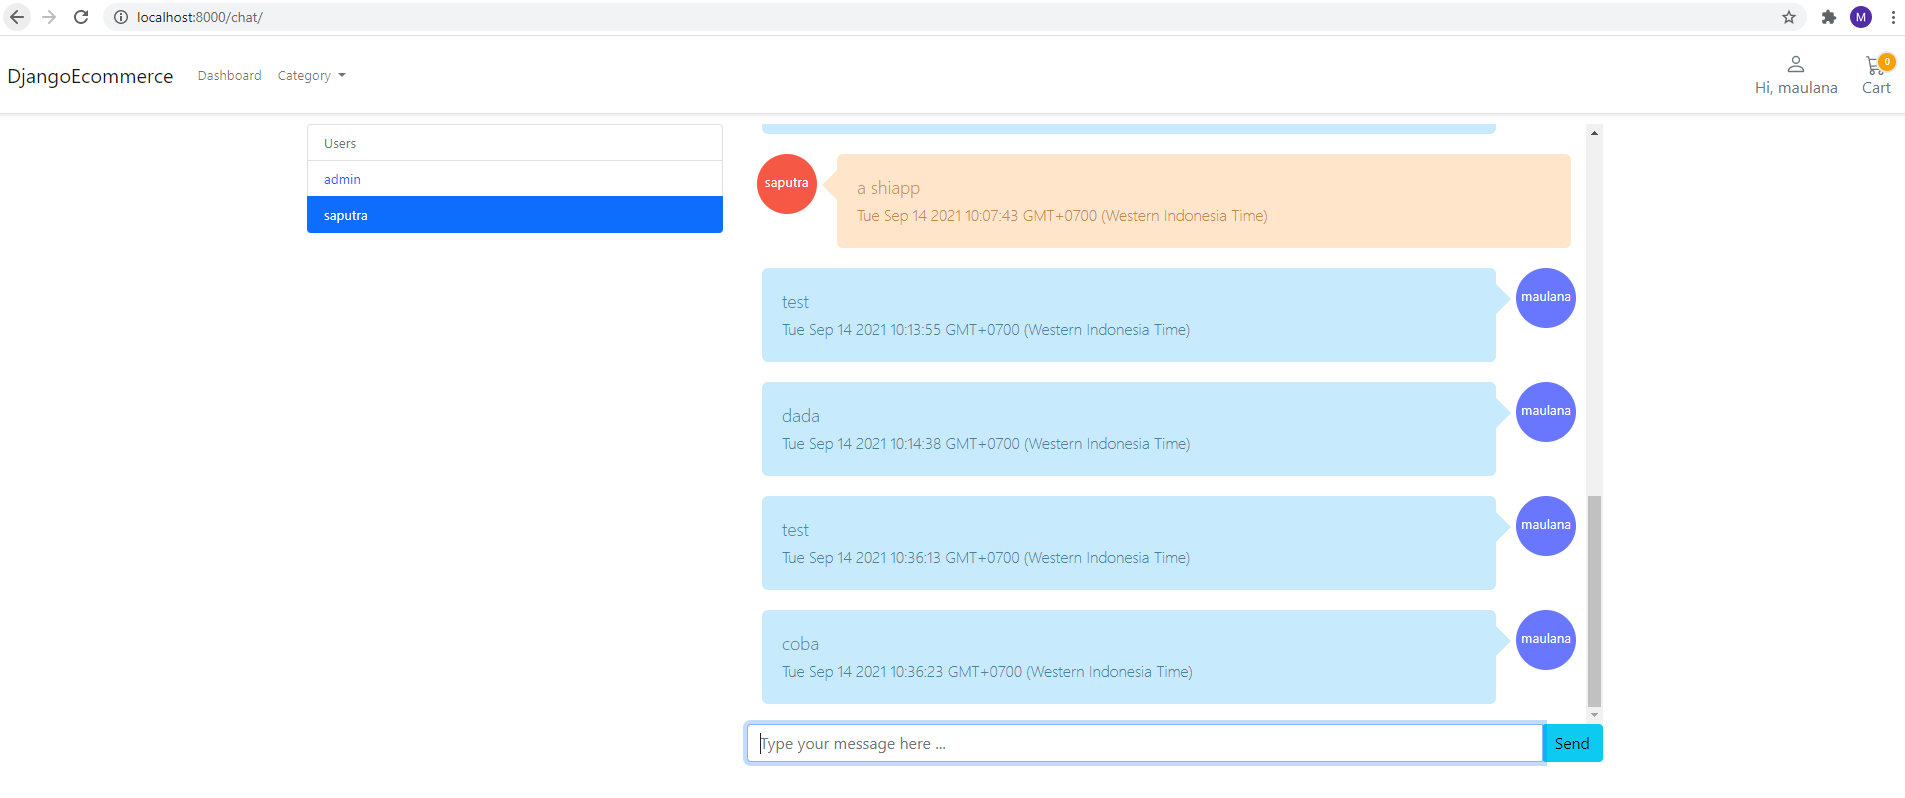
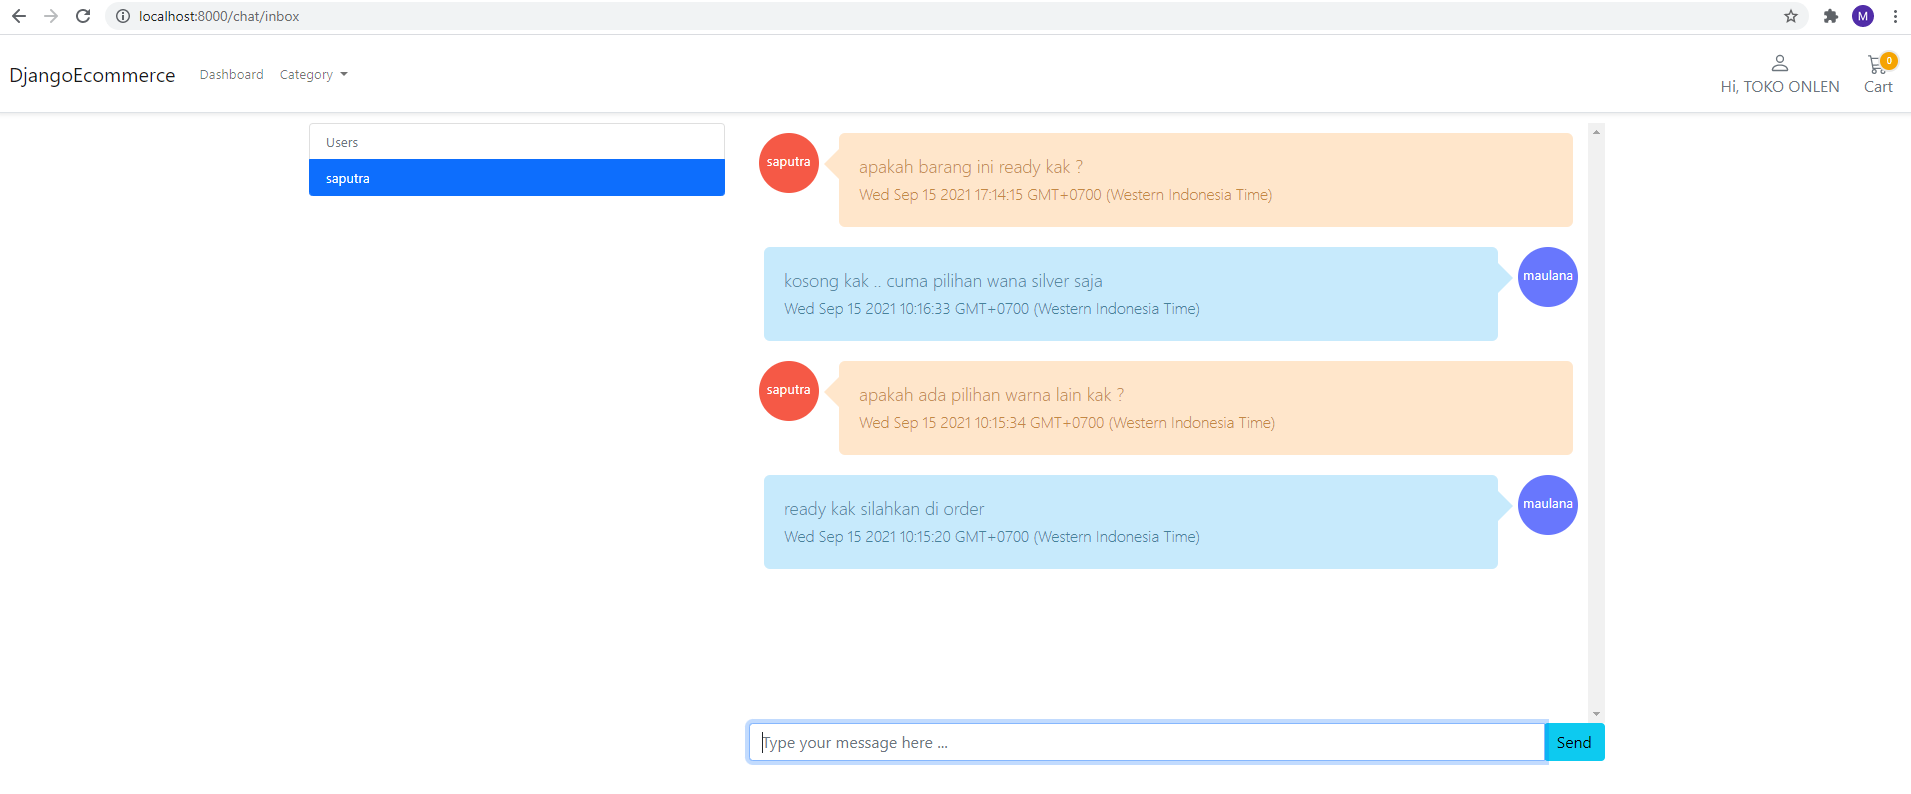
update for add shop

diff --git a/templates/core/base.html b/templates/core/base.html
@@ -57,14 +57,22 @@
                                             <path d="M8 8a3 3 0 1 0 0-6 3 3 0 0 0 0 6zm2-3a2 2 0 1 1-4 0 2 2 0 0 1 4 0zm4 8c0 1-1 1-1 1H3s-1 0-1-1 1-4 6-4 6 3 6 4zm-1-.004c-.001-.246-.154-.986-.832-1.664C11.516 10.68 10.289 10 8 10c-2.29 0-3.516.68-4.168 1.332-.678.678-.83 1.418-.832 1.664h10z" />
                                         </svg>
                                     </div>
-                                    <span class="fs15 fw500">Hi, {{ user.user_name }}</span>
+                                    {% if user.shop %}
+                                        <span class="fs15 fw500">Hi, {{ user.shop.title }}</span>
+                                    {% else %}
+                                        <span class="fs15 fw500">Hi, {{ user.user_name }}</span>
+                                    {% endif %}
                                 </a>
                                 <ul class="dropdown-menu" aria-labelledby="navbarDropdown">
                                     <li>
                                         <a class="dropdown-item" href="{% url 'account:edit' %}">account</a>
                                     </li>
                                     <li>
-                                        <a class="dropdown-item" href="{% url 'chat:inbox' %}">inbox</a>
+                                        {% if user.shop %}
+                                            <a class="dropdown-item" href="{% url 'chat:inbox' %}">chat</a>
+                                        {% else %}
+                                            <a class="dropdown-item" href="{% url 'chat:sent' %}">chat</a>
+                                        {% endif %}
                                     </li>
                                     <li>
                                         <a class="dropdown-item" href="{% url 'account:logout' %}">logout</a>

diff --git a/static/js/app.js b/static/js/app.js
@@ -3,22 +3,6 @@ let chatButton = $('#btn-send');
 let userList = $('#user-list');
 let messageList = $('#messages');
 
-function updateUserList() {
-    $.getJSON('api/v1/user-inbox/', function (data) {
-        userList.children('.user').remove();
-        for (let i = 0; i < data.length; i++) {
-            const userItem = `<a class="list-group-item user">${data[i]['user_name']}</a>`;
-            $(userItem).appendTo('#user-list');
-        }
-        $('.user').click(function () {
-            userList.children('.active').removeClass('active');
-            let selected = event.target;
-            $(selected).addClass('active');
-            setCurrentRecipient(selected.text);
-        });
-    });
-}
-
 function drawMessage(message) {
     let position = 'left';
     const date = new Date(message.created);
@@ -84,7 +68,13 @@ function disableInput() {
 }
 
 $(document).ready(function () {
-    updateUserList();
+    $('.user').click(function () {
+        userList.children('.active').removeClass('active');
+        let selected = event.target;
+        $(selected).addClass('active');
+        setCurrentRecipient(selected.id);
+    });
+    
     disableInput();
 
     var socket = new WebSocket('ws://' + window.location.host + '/ws?session_key=' + sessionKey)

diff --git a/templates/chat/home.html b/templates/chat/home.html
@@ -2,7 +2,7 @@
 {% load static %}
 
 {% block title %}
-    Chat Inbox
+    Chat
 {% endblock %}
 
 {% block content %}
@@ -12,8 +12,14 @@
                 <div id="user-list" class="list-group">
                     <a href="" class="list-group-item disabled">
                         <label class="list-group-item-heading">Users</label>
-                        {# Users go here #}
                     </a>
+                    {% for user in users %}
+                        {% if user.shop %}
+                            <a class="list-group-item user" id="{{ user.user_name }}">{{ user.shop.title }} (shop)</a>
+                        {% else %}
+                            <a class="list-group-item user" id="{{ user.user_name }}">{{ user.user_name }}</a>
+                        {% endif %}
+                    {% endfor %}
                 </div>
             </div>
             <div class="col-md-8">

diff --git a/account/migrations/0002_auto_20210915_0846.py b/account/migrations/0002_auto_20210915_0846.py
@@ -1,0 +1,31 @@
+# Generated by Django 3.1.4 on 2021-09-15 01:46
+
+from django.db import migrations, models
+import django.db.models.deletion
+
+
+class Migration(migrations.Migration):
+
+    dependencies = [
+        ('account', '0001_initial'),
+    ]
+
+    operations = [
+        migrations.CreateModel(
+            name='Shop',
+            fields=[
+                ('user', models.OneToOneField(on_delete=django.db.models.deletion.CASCADE, primary_key=True, related_name='shop', serialize=False, to='account.userbase')),
+                ('title', models.CharField(max_length=255)),
+                ('image', models.ImageField(upload_to='images/')),
+                ('created', models.DateTimeField(auto_now_add=True)),
+                ('updated', models.DateTimeField(auto_now=True)),
+            ],
+            options={
+                'verbose_name_plural': 'shops',
+            },
+        ),
+        migrations.AlterModelOptions(
+            name='userbase',
+            options={'verbose_name_plural': 'users'},
+        ),
+    ]

diff --git a/chat/urls.py b/chat/urls.py
@@ -3,17 +3,19 @@ from django.views.generic import TemplateView
 from django.contrib.auth.decorators import login_required
 from rest_framework.routers import DefaultRouter
 
-from chat.api import MessageModelViewSet, UserModelViewSet, InboxModelViewSet
+from chat.api import MessageModelViewSet, UserModelViewSet
+
+from . import views
 
 router = DefaultRouter()
 router.register(r'message', MessageModelViewSet, basename='message-api')
 router.register(r'user', UserModelViewSet, basename='user-api')
-router.register(r'user-inbox', InboxModelViewSet, basename='user-inbox-api')
 
 app_name = 'chat'
 
 urlpatterns = [
     path(r'api/v1/', include(router.urls)),
     
-    path('inbox', login_required(TemplateView.as_view(template_name='chat/inbox.html')), name='inbox'),
+    path('inbox', login_required(views.chat_inbox), name='inbox'),
+    path('sent', login_required(views.chat_sent), name='sent'),
 ]

diff --git a/chat/views.py b/chat/views.py
@@ -1,3 +1,19 @@
-from django.shortcuts import render
+from django.shortcuts import get_object_or_404, render
+from django.db.models import Count
 
-# Create your views here.
+from account.models import UserBase
+
+def chat_inbox(request):
+    users = []
+    for user in request.user.comments_to.all().values('user').annotate(total=Count('id')).order_by():
+        users.append(UserBase.objects.get(id=user['user']))
+    
+    return render(request, 'chat/home.html', {'users': users})
+
+def chat_sent(request):
+    
+    users = []
+    for recipient in request.user.comments_from.all().values('recipient').annotate(total=Count('id')).order_by():
+        users.append(UserBase.objects.get(id=recipient['recipient']))
+    
+    return render(request, 'chat/home.html', {'users': users})

diff --git a/chat/api.py b/chat/api.py
@@ -63,14 +63,3 @@ class UserModelViewSet(ModelViewSet):
         self.queryset = self.queryset.exclude(id=request.user.id)
         
         return super(UserModelViewSet, self).list(request, *args, **kwargs)
-
-class InboxModelViewSet(ModelViewSet):
-    serializer_class = UserModelSerializer
-    
-    allowed_methods = ('GET', 'HEAD', 'OPTIONS')
-    pagination_class = None  # Get all user
-
-    def list(self, request, *args, **kwargs):
-        self.queryset = { comment.user for comment in request.user.comments_to.all() if comment.recipient != comment.user }
-        
-        return super(InboxModelViewSet, self).list(request, *args, **kwargs)

diff --git a/account/models.py b/account/models.py
@@ -54,3 +54,18 @@ class UserBase(AbstractBaseUser, PermissionsMixin):
     
     def __str__(self):
         return self.user_name
+
+class Shop(models.Model):
+    user = models.OneToOneField(UserBase, related_name='shop', on_delete=models.CASCADE, primary_key=True)
+    
+    title = models.CharField(max_length=255)
+    image = models.ImageField(upload_to='images/')
+    
+    created = models.DateTimeField(auto_now_add=True)
+    updated = models.DateTimeField(auto_now=True)
+    
+    class Meta:
+        verbose_name_plural = "shops"
+    
+    def __str__(self):
+        return self.title

diff --git a/account/admin.py b/account/admin.py
@@ -2,7 +2,7 @@ from django.contrib import admin
 from django.contrib.auth.admin import UserAdmin
 
 from account.forms import CustomUserCreationForm, CustomUserChangeForm
-from account.models import UserBase
+from account.models import UserBase, Shop
 
 class CustomUserAdmin(UserAdmin):
     add_form = CustomUserCreationForm
@@ -24,3 +24,8 @@ class CustomUserAdmin(UserAdmin):
     ordering = ('email',)
 
 admin.site.register(UserBase, CustomUserAdmin)
+
+@admin.register(Shop)
+class ShopAdmin(admin.ModelAdmin):
+    list_display = ['user', 'title', 'created']
+    search_fields = ['title']

diff --git a/chat/migrations/0001_initial.py b/chat/migrations/0001_initial.py
@@ -25,7 +25,7 @@ class Migration(migrations.Migration):
             ],
             options={
                 'verbose_name_plural': 'messages',
-                'ordering': ('-created',),
+                'ordering': ('created',),
             },
         ),
     ]

diff --git a/chat/models.py b/chat/models.py
@@ -15,7 +15,7 @@ class Message(models.Model):
     
     class Meta:
         verbose_name_plural = 'messages'
-        ordering = ('-created',)
+        ordering = ('created',)
     
     def __str__(self):
         return str(self.id)

diff --git a/README.md b/README.md
@@ -15,11 +15,22 @@ The Django-Ecommerce is an open-source project initiative and tutorial series bu
 6.  `$ python manage.py migrate`
 7.  `$ python manage.py loaddata seed/001_account.json`
 8.  `$ python manage.py loaddata seed/002_store.json`
-9.  `$ python manage.py runserver`
+9.  `$ python manage.py loaddata seed/003_chat.json`
+10.  `$ python manage.py runserver`
 
 #### admin :
 `http://localhost:8000/admin`
 - email : admin@example.com
+- password : 12345
+
+#### shop :
+`http://localhost:8000/account/login`
+- email : maulana@example.com
+- password : 12345
+
+#### user :
+`http://localhost:8000/account/login`
+- email : saputra@example.com
 - password : 12345
 
 #### note :
